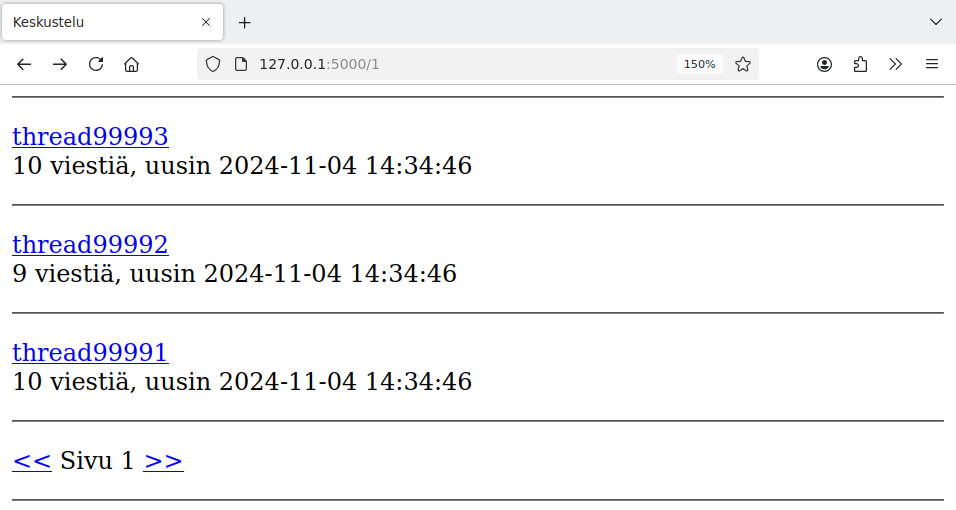
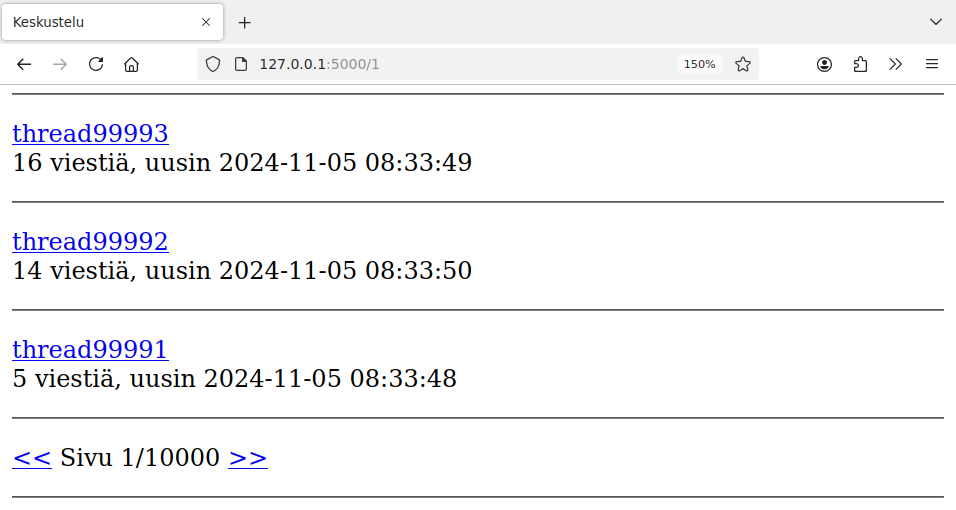
Toteuta sivutus paremmin

diff --git a/_material/07.md b/_material/07.md
@@ -85,20 +85,32 @@ app.py
 @app.route("/")
 @app.route("/<int:page>")
 def index(page=1):
-    page = max(page, 1)
-    threads = forum.get_threads(page)
-    return render_template("index.html", page=page, threads=threads)
+    page_size = 10
+    thread_count = forum.thread_count()
+    page_count = math.ceil(thread_count / page_size)
+    page_count = max(page_count, 1)
+
+    if page < 1:
+        return redirect("/1")
+    if page > page_count:
+        return redirect("/" + str(page_count))
+
+    threads = forum.get_threads(page, page_size)
+    return render_template("index.html", page=page, page_count=page_count, threads=threads)
 ```
 
-Tässä etusivun osoitteessa on uusi valinnainen parametri `page`, joka ilmaisee sivunumeron. Esimerkiksi osoite `/5` tarkoittaa sivua 5. Jos sivua ei anneta, se on oletuksena 1 eli osoitteet `/` ja `/1` tarkoittavat samaa. Lisäksi koodi varmistaa funktion `max` avulla, että sivu on aina vähintään 1.
+Tässä etusivun osoitteessa on uusi valinnainen parametri `page`, joka ilmaisee sivunumeron. Esimerkiksi osoite `/5` tarkoittaa sivua 5. Jos sivua ei anneta, se on oletuksena 1 eli osoitteet `/` ja `/1` tarkoittavat samaa.
+
+Muuttuja `page_size` ilmaisee, montako ketjua näytetään yhdellä sivulla. Muuttujaan `thread_count` haetaan tietokannasta ketjujen yhteismäärä. Näiden tietojen avulla lasketaan sivujen yhteismäärä muuttujaan `page_count`. Tässä on pyöristys ylöspäin (`math.ceil`), jotta kaava toimii oikein, kun viestit eivät jakaudu tasan sivuille. Lisäksi halutaan, että sivujen määrä on aina vähintään 1.
+
+Jos parametrina annettu sivu on alle 1, käyttäjä ohjataan ensimmäiselle sivulle. Vastaavasti jos parametrina annettu sivu on suurempi kuin sivujen määrä, käyttäjä ohjataan viimeiselle sivulle.
 
 Funktio `get_threads` ottaa huomioon sivunumeron näin:
 
 {: .code-title }
 forum.py
 ```python
-def get_threads(page):
-    page_size = 10
+def get_threads(page, page_size):
     sql = """SELECT t.id, t.title, COUNT(m.id) total, MAX(m.sent_at) last
              FROM threads t, messages m
              WHERE t.id = m.thread_id
@@ -110,7 +122,7 @@ def get_threads(page):
     return db.query(sql, [page_size, offset])
 ```
 
-Muuttuja `page_size` määrittelee, montako ketjua näytetään yhdellä sivulla. Tässä on valittu, että yhdellä sivulla näytetään kymmenen ketjua. SQL-kyselyssä `LIMIT` on haettavien tulosrivien määrä ja `OFFSET` on ensimmäisen haettavan rivin kohta alkuperäisessä tulostaulussa.
+Tämän SQL-kyselyn lopussa `LIMIT` ja `OFFSET` valitsevat halutut rivit tulostauluun. Sana `LIMIT` määrittelee, montako riviä haetaan, ja sana `OFFSET` määrittelee, mikä on ensimmäisen haettavan rivin kohta alkuperäisessä tulostaulussa.
 
 Esimerkiksi jos sivu on 3, kyselyssä `LIMIT` on 10 ja `OFFSET` on 20. Tämä tarkoittaa, että alkuperäisestä tulostaulusta haetaan rivit kohdista 20, 21, ..., 29.
 
@@ -121,7 +133,7 @@ index.html
 ```jinja
   {% raw %}<p>
     <a href="/{{ page - 1 }}">&lt;&lt;</a>
-    Sivu {{ page }}
+    Sivu {{ page }}/{{ page_count }}
     <a href="/{{ page + 1 }}">&gt;&gt;</a>
   </p>
   <hr />{% endraw %}
